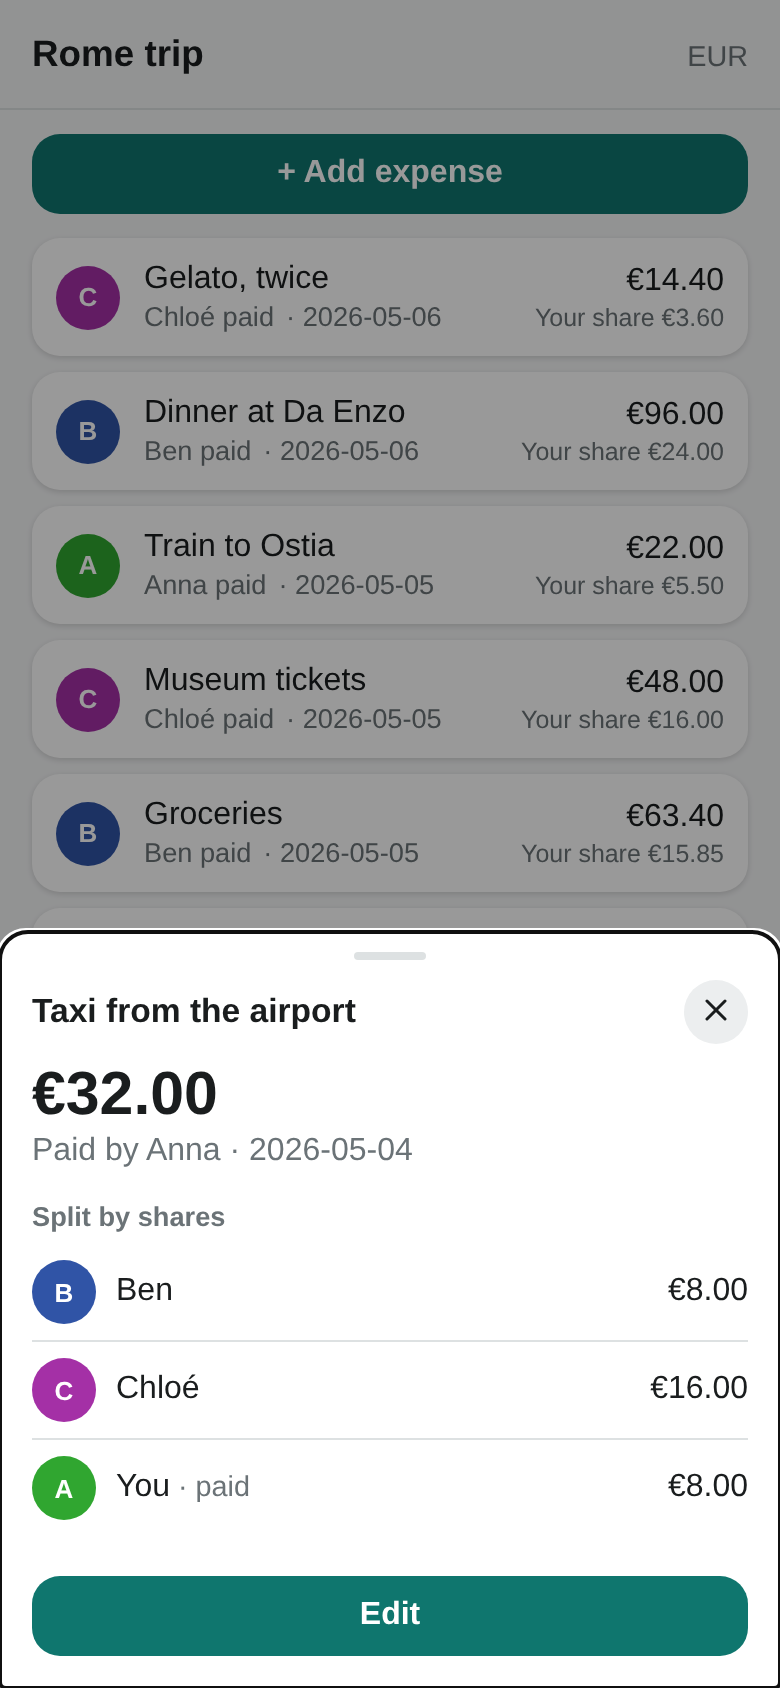
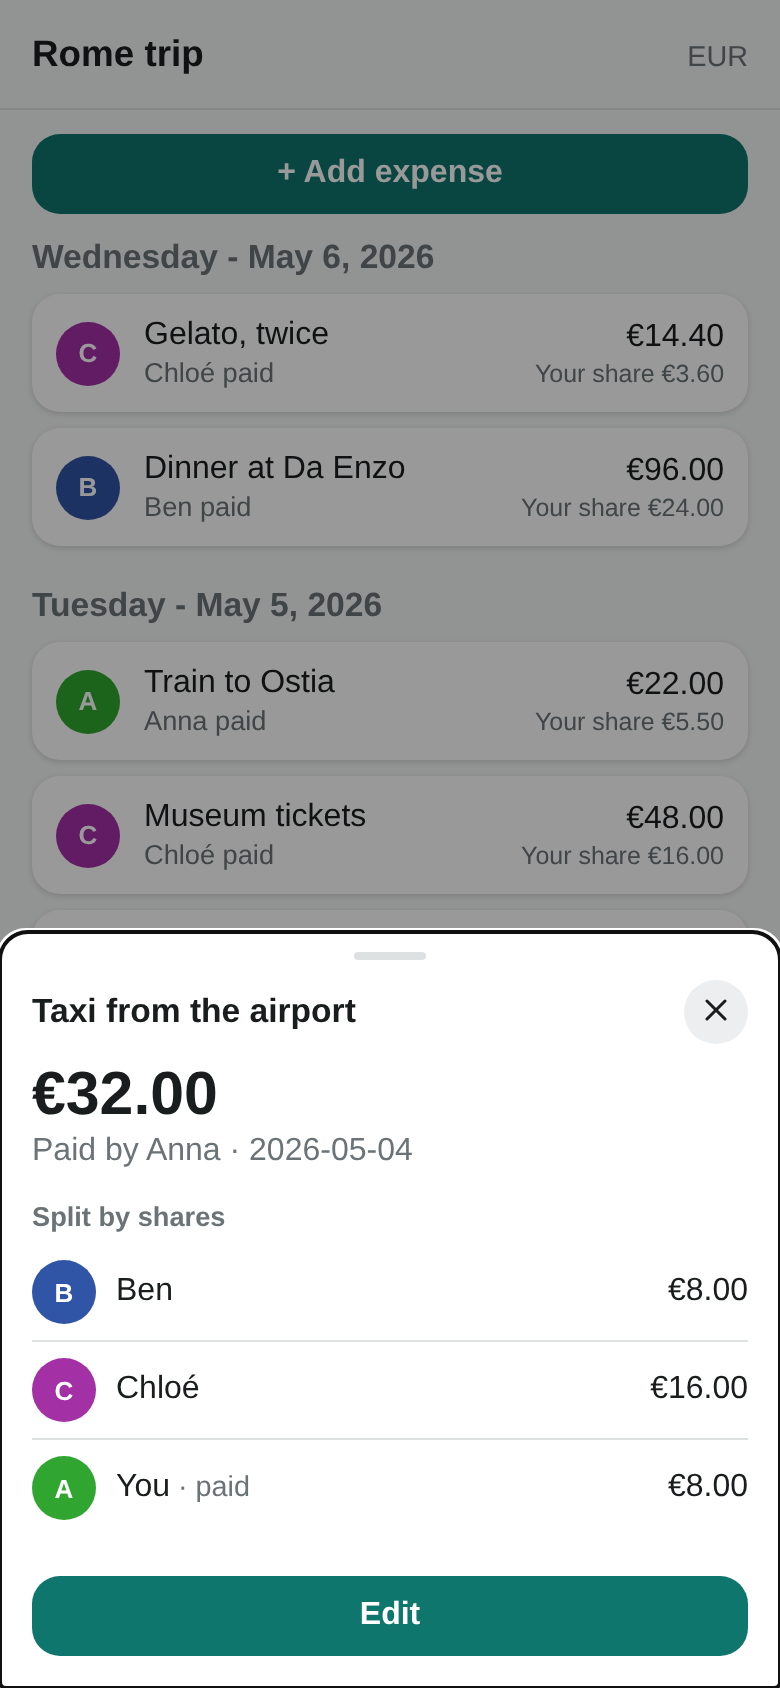
feat(expenses): group the list by day
The date was repeated on every card, competing with the payer name for
the one line they shared. It moves to a "<weekday> - <date>" heading per
day, which also makes the shape of a trip visible at a glance.

Sorted by date rather than by id: an id is chronological by creation but
a date is whatever the user typed, so an expense added today can belong
to last Tuesday — grouping runs of id order would print that Tuesday
twice with other days in between.

The heading is built from the date's components, not Date.parse, which
reads an ISO date as UTC midnight and prints the day before everywhere
west of Greenwich.

diff --git a/src/ui/ExpenseList.tsx b/src/ui/ExpenseList.tsx
@@ -1,7 +1,6 @@
-// The Expenses tab: newest-first list + the add/edit sheet.
-//
-// Ids are ULID-ish (model.newId): ascending id order is chronological, so
-// "newest first" is just the reverse of state/doc's listExpenses().
+// The Expenses tab: a newest-first list grouped by day, plus the add/edit
+// sheet.
+import { Fragment } from "preact";
 import { useState } from "preact/hooks";
 import { getSettings, listExpenses, listMembers } from "../state/doc";
 import { splitShares } from "../state/balances";
@@ -17,6 +16,45 @@ import { Avatar } from "./components/Avatar";
 import { ExpenseForm } from "./ExpenseForm";
 import { ExpenseDetail } from "./ExpenseDetail";
 
+const WEEKDAY = new Intl.DateTimeFormat(undefined, { weekday: "long" });
+const DATE = new Intl.DateTimeFormat(undefined, {
+  day: "numeric",
+  month: "long",
+  year: "numeric",
+});
+
+/** "Wednesday - 6 May 2026", the day header for an ISO `yyyy-mm-dd` date. */
+export function dayHeading(iso: string): string {
+  const parts = /^(\d{4})-(\d{2})-(\d{2})$/.exec(iso);
+  if (!parts) return iso; // an imported ledger can carry anything
+  // Built from the components, not Date.parse: an ISO date string parses as
+  // UTC midnight, which formats as the *previous* day everywhere west of
+  // Greenwich — the one place a date is allowed to move by a timezone.
+  const d = new Date(Number(parts[1]), Number(parts[2]) - 1, Number(parts[3]));
+  return `${WEEKDAY.format(d)} - ${DATE.format(d)}`;
+}
+
+/**
+ * Newest day first, and newest-added first within a day.
+ *
+ * Not the id order the list used to run on: an id is chronological by
+ * creation, but a date is whatever the user typed, so an expense added today
+ * can belong to last Tuesday. Grouping runs of id-ordered rows would print
+ * that Tuesday's header twice, with other days in between.
+ */
+const byDayThenNewest = (a: Expense, b: Expense): number =>
+  a.date === b.date ? (a.id < b.id ? 1 : -1) : a.date < b.date ? 1 : -1;
+
+function groupByDay(expenses: Expense[]): { date: string; items: Expense[] }[] {
+  const days: { date: string; items: Expense[] }[] = [];
+  for (const e of [...expenses].sort(byDayThenNewest)) {
+    const open = days[days.length - 1];
+    if (open && open.date === e.date) open.items.push(e);
+    else days.push({ date: e.date, items: [e] });
+  }
+  return days;
+}
+
 export function ExpenseList() {
   const expenses = useDocValue(listExpenses);
   const members = useDocValue(listMembers);
@@ -28,7 +66,7 @@ export function ExpenseList() {
   const [viewId, setViewId] = useState<ExpenseId | null>(null);
   const [editId, setEditId] = useState<ExpenseId | "new" | null>(null);
 
-  const newest = [...expenses].reverse();
+  const days = groupByDay(expenses);
   const memberIds = members.map((m) => m.id);
   const nameOf = (id: MemberId): string =>
     members.find((m) => m.id === id)?.name || "Someone";
@@ -39,6 +77,34 @@ export function ExpenseList() {
   const editing = editId === "new" ? undefined : find(editId);
 
   const addBtn = () => setEditId("new");
+
+  const card = (expense: Expense) => {
+    const payer = members.find((m) => m.id === expense.payerId);
+    const shares = splitShares(expense, memberIds);
+    const myShare = selfId ? (shares[selfId] ?? 0) : undefined;
+    return (
+      <Row key={expense.id} onActivate={() => setViewId(expense.id)}>
+        <Avatar member={payer ?? { id: expense.payerId, name: "?" }} />
+        {/* The day header carries the date now, so the card's middle column
+            is title over payer — both user-typed, both ellipsizing, neither
+            able to push the amounts out of their column. */}
+        <span className="expense-main">
+          <span className="expense-title">{expense.title || "Untitled"}</span>
+          <span className="expense-payer">{nameOf(expense.payerId)} paid</span>
+        </span>
+        <span className="expense-amounts">
+          <span className="money">
+            {formatMoney(expense.amountCents, currency)}
+          </span>
+          {myShare !== undefined && (
+            <span className="money expense-share">
+              Your share {formatMoney(myShare, currency)}
+            </span>
+          )}
+        </span>
+      </Row>
+    );
+  };
 
   return (
     <section aria-label="Expenses">
@@ -54,46 +120,17 @@ export function ExpenseList() {
         + Add expense
       </button>
 
-      {newest.length === 0 ? (
+      {days.length === 0 ? (
         <p className="placeholder">
           No expenses yet — add the first one to start splitting.
         </p>
       ) : (
-        newest.map((expense) => {
-          const payer = members.find((m) => m.id === expense.payerId);
-          const shares = splitShares(expense, memberIds);
-          const myShare = selfId ? (shares[selfId] ?? 0) : undefined;
-          return (
-            <Row key={expense.id} onActivate={() => setViewId(expense.id)}>
-              <Avatar member={payer ?? { id: expense.payerId, name: "?" }} />
-              {/* Two lines, each with its own overflow rule: a long title or
-                  payer name ellipsizes, while the date and the amounts never
-                  shrink — sharing one nowrap line let a long name push the
-                  date straight over the amount column. */}
-              <span className="expense-main">
-                <span className="expense-title">
-                  {expense.title || "Untitled"}
-                </span>
-                <span className="expense-meta">
-                  <span className="expense-payer">
-                    {nameOf(expense.payerId)} paid
-                  </span>
-                  <span className="expense-date">{expense.date}</span>
-                </span>
-              </span>
-              <span className="expense-amounts">
-                <span className="money">
-                  {formatMoney(expense.amountCents, currency)}
-                </span>
-                {myShare !== undefined && (
-                  <span className="money expense-share">
-                    Your share {formatMoney(myShare, currency)}
-                  </span>
-                )}
-              </span>
-            </Row>
-          );
-        })
+        days.map((day) => (
+          <Fragment key={day.date}>
+            <h2 className="day-heading">{dayHeading(day.date)}</h2>
+            {day.items.map(card)}
+          </Fragment>
+        ))
       )}
 
       <ExpenseDetail

diff --git a/test/render.test.tsx b/test/render.test.tsx
@@ -6,7 +6,7 @@
 import { describe, expect, it, beforeEach, afterEach } from "vitest";
 import { render } from "preact";
 import { App } from "../src/ui/App";
-import { ExpenseList } from "../src/ui/ExpenseList";
+import { ExpenseList, dayHeading } from "../src/ui/ExpenseList";
 import { ProfileForm } from "../src/ui/ProfileForm";
 import { addExpense, deleteExpense } from "../src/state/doc";
 import { PayUpSheet } from "../src/ui/PayUpSheet";
@@ -135,6 +135,50 @@ describe("ExpenseList", () => {
 
     expect(host.textContent).toContain("Edit expense");
     expect(buttonWith("Save")).not.toBeUndefined();
+  });
+
+  it("names the weekday, and never shifts the date by a timezone", () => {
+    // Parsing "2026-05-06" with Date.parse gives UTC midnight, which prints as
+    // Tuesday the 5th for everyone west of Greenwich.
+    expect(dayHeading("2026-05-06")).toContain("Wednesday");
+    expect(dayHeading("2026-05-06")).toMatch(/\b6\b/);
+    expect(dayHeading("2026-01-01")).toContain("Thursday");
+    // A ledger imported from elsewhere can carry anything; better the raw
+    // string than a header reading "Invalid Date".
+    expect(dayHeading("whenever")).toBe("whenever");
+  });
+
+  it("groups by day, newest first, with one header per day", () => {
+    // Deliberately out of order, and the *last* added belongs to the oldest
+    // day: grouping runs of creation order would print 07-30 twice.
+    const extra = [
+      { ...EXPENSE, id: "e-test-2", title: "Beer", date: "2026-07-30" },
+      { ...EXPENSE, id: "e-test-3", title: "Cab", date: "2026-08-01" },
+      { ...EXPENSE, id: "e-test-4", title: "Museum", date: "2026-07-30" },
+    ];
+    extra.forEach(addExpense);
+    try {
+      render(<ExpenseList />, host);
+
+      const headings = Array.from(host.querySelectorAll("h2")).map((h) =>
+        (h.textContent ?? "").trim(),
+      );
+      expect(headings).toEqual([
+        dayHeading("2026-08-01"),
+        dayHeading("2026-07-30"),
+      ]);
+
+      // Newest day first, newest-added first inside it.
+      const titles = Array.from(host.querySelectorAll(".expense-title")).map(
+        (t) => t.textContent,
+      );
+      expect(titles).toEqual(["Cab", "Dinner", "Museum", "Beer"]);
+
+      // The date is the header's job now, not the card's.
+      expect(host.querySelector(".row")?.textContent).not.toContain("2026-");
+    } finally {
+      extra.forEach((e) => deleteExpense(e.id));
+    }
   });
 });
 

diff --git a/src/style/app.css b/src/style/app.css
@@ -291,22 +291,22 @@ select {
   white-space: nowrap;
 }
 
-.expense-meta {
-  display: flex;
-  align-items: baseline;
-  gap: 6px;
-  min-width: 0;
+.expense-payer {
   font-size: 0.85rem;
   color: var(--color-text-dim);
 }
 
-.expense-date {
-  flex-shrink: 0;
-  font-variant-numeric: tabular-nums;
+/* The date lives here rather than on every card. First one sits directly
+   under the Add button, which brings its own bottom margin. */
+.day-heading {
+  margin: 16px 0 6px;
+  font-size: 0.8rem;
+  font-weight: 600;
+  color: var(--color-text-dim);
 }
 
-.expense-date::before {
-  content: "· ";
+.day-heading:first-of-type {
+  margin-top: 0;
 }
 
 .expense-amounts {

diff --git a/README.md b/README.md
@@ -14,12 +14,12 @@ Members attach payment coordinates (PayPal.Me, IBAN, Revolut, Wise, Venmo, Monzo
 
 <table>
   <tr>
-    <td width="33%"><img src="docs/screenshots/expenses.png" alt="A list of eight expenses from a trip, each showing who paid, the date, the total and your own share." width="240"></td>
+    <td width="33%"><img src="docs/screenshots/expenses.png" alt="Eight expenses from a trip under three day headings, each card showing who paid, the total and your own share." width="240"></td>
     <td width="33%"><img src="docs/screenshots/expense.png" alt="A read-only summary of one expense, listing what each person owes, with an Edit button." width="240"></td>
     <td width="33%"><img src="docs/screenshots/shares.png" alt="The expense editor with the split set to Shares: each person has a stepper, and one person has two shares, which reads as 50 percent." width="240"></td>
   </tr>
   <tr>
-    <td>Every expense, newest first — with your share on each.</td>
+    <td>Grouped by day, newest first — with your share on each.</td>
     <td>Tapping an expense opens a read-only summary. Editing is a deliberate second tap.</td>
     <td>Split evenly, by shares, or by exact amounts.</td>
   </tr>
